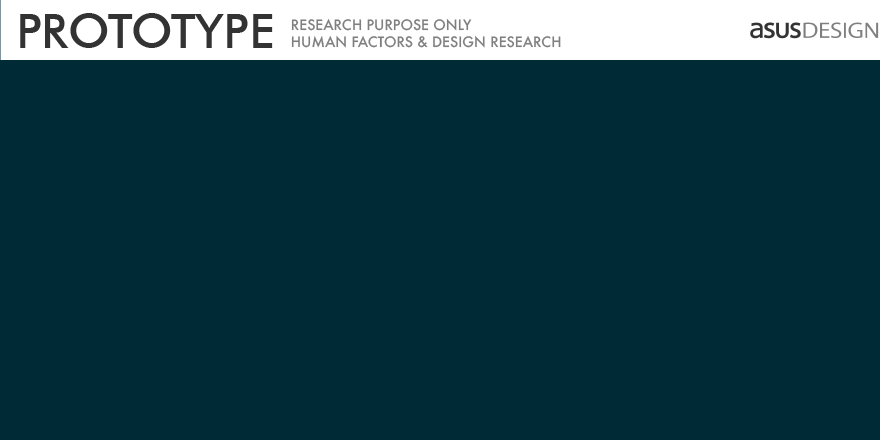
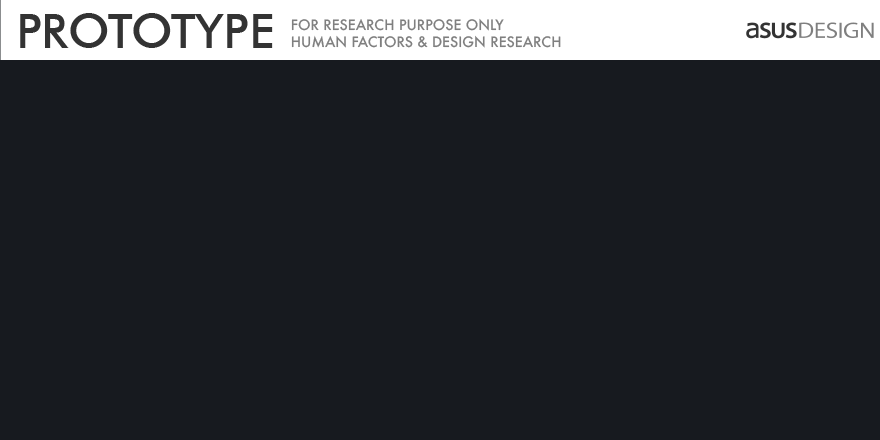
No first row.

Changed region(s): [[0.3375, 0.0295, 0.583, 0.0886], [0.8284, 0.0295, 1.0, 0.0886]]

diff --git a/expRT/OSD_simulate.py b/expRT/OSD_simulate.py
@@ -70,7 +70,6 @@ block_ins = {
 pre_key = []
 response = []
 
-
 # Strat the experiment ---- 
 for block in range(2):
     # instruction here
@@ -89,7 +88,7 @@ for block in range(2):
         iRow = 0
         iCol = 0
         reqCol = 0
-        reqRow = random.randrange(nRow + 1)
+        reqRow = random.randrange(1, nRow + 1)
         stimuli_time = core.getTime()
 
         while trialStatus == 1:
@@ -105,22 +104,23 @@ for block in range(2):
             request = visual.Rect(my_win,
                 width = requestLUT[reqCol]['width'],
                 height = requestLUT[reqCol]['height'],
-                fillColor = SOLARIZED['yellow'], fillColorSpace='rgb255', 
-                lineColor = SOLARIZED['base01'], lineColorSpace ='rgb255', 
+                lineWidth = 2,
+                fillColor = None,
+                lineColor = '#b58900',
                 pos= indicatorLUT[reqCol]['position'][reqRow], opacity = 1)
             request.draw()
             # Indicator
             indicator = visual.Rect(my_win, 
                 width = indicatorLUT[iCol]['width'], 
                 height = indicatorLUT[iCol]['height'], 
-                fillColor = SOLARIZED['base01'], fillColorSpace='rgb255', 
-                lineColor = SOLARIZED['base01'], lineColorSpace ='rgb255', 
+                fillColor = SOLARIZED['grey01'], fillColorSpace='rgb255', 
+                lineColor = SOLARIZED['grey01'], lineColorSpace ='rgb255', 
                 pos= indicatorLUT[iCol]['position'][iRow], opacity = 0.5)
 
             indicator.draw()
 
             # OSD strings
-            for image in range(2):
+            for image in range(iCol+1):
                 img = visual.ImageStim(my_win,
                     image = strLUT[image]['path'],
                     pos = strLUT[image]['position'])
@@ -163,10 +163,11 @@ for block in range(2):
                     reqCol += 1
                     if reqCol > nCol:
                         trialStatus = 0
-                    reqRow = random.randrange(nRow + 1)
+                    reqRow = random.randrange(1, nRow + 1)
                     stimuli_time = core.getTime()
 
             pre_key = response_key
+
 
 # Close the window
 my_win.close()

diff --git a/expRT/ExpMaterial.py b/expRT/ExpMaterial.py
@@ -27,6 +27,7 @@ requestLUT = [
     }
 ]
 
+
 indicatorLUT = [
     {
     'name' : 'L1 selector',
@@ -59,7 +60,7 @@ imageLUT = [
     {
     'name' : 'Background',
     'position' : (0, 0),
-    'path' : 'OSD_ImgFolder/OSDMainFrame.png'
+    'path' : 'OSD_ImgFolder/MainFrame.png'
     },
     {
     'name' : 'Lay_1',
@@ -90,14 +91,19 @@ strLUT = [
     'path' : 'OSD_ImgFolder/L1 str.png'
     },
     {
-    'name' : 'F1_L2_str',
+    'name' : 'L2_str',
     'position' : (-235, -30),
-    'path' : 'OSD_ImgFolder/F1 L2 str.png'
+    'path' : 'OSD_ImgFolder/L2 str.png'
     },
     {
-    'name' : 'F2_L2_str',
-    'position' : (-235, -30),
-    'path' : 'OSD_ImgFolder/F2 L2 str.png'
+    'name' : 'L3_str',
+    'position' : (35, -30),
+    'path' : 'OSD_ImgFolder/L3 str.png'
+    },
+    {
+    'name' : 'L4_str',
+    'position' : (305, -30),
+    'path' : 'OSD_ImgFolder/L4 str.png'
     }
 ]
 

diff --git a/expRT/Solarized.py b/expRT/Solarized.py
@@ -1,14 +1,14 @@
 # from Solarized import * 
 
 SOLARIZED = {
-    'base03' : (0,43,54),
+    'base03' : (0,43,54), # dark
     'base02' : (7,54,66),
     'base01' : (88,110,117),
     'base00' : (101,123,131),
     'base0' : (131,148,150),
     'base1' : (147,161,161),
     'base2' : (238,232,213),
-    'base3' : (253,246,227),
+    'base3' : (253,246,227), # light
     'yellow' : (181,137,0),
     'orange' : (203,75,22),
     'red' : (220,50,47),
@@ -16,5 +16,8 @@ SOLARIZED = {
     'violet' : (108,113,196),
     'blue' : (38,139,210),
     'cyan' : (42,161,152),
-    'green' : (133,153,0)
+    'green' : (133,153,0),
+    'grey03' : (23, 26 ,31), # dark,
+    'grey02' : (34, 38, 45),
+    'grey01' : (59,65,73) # light
 }
